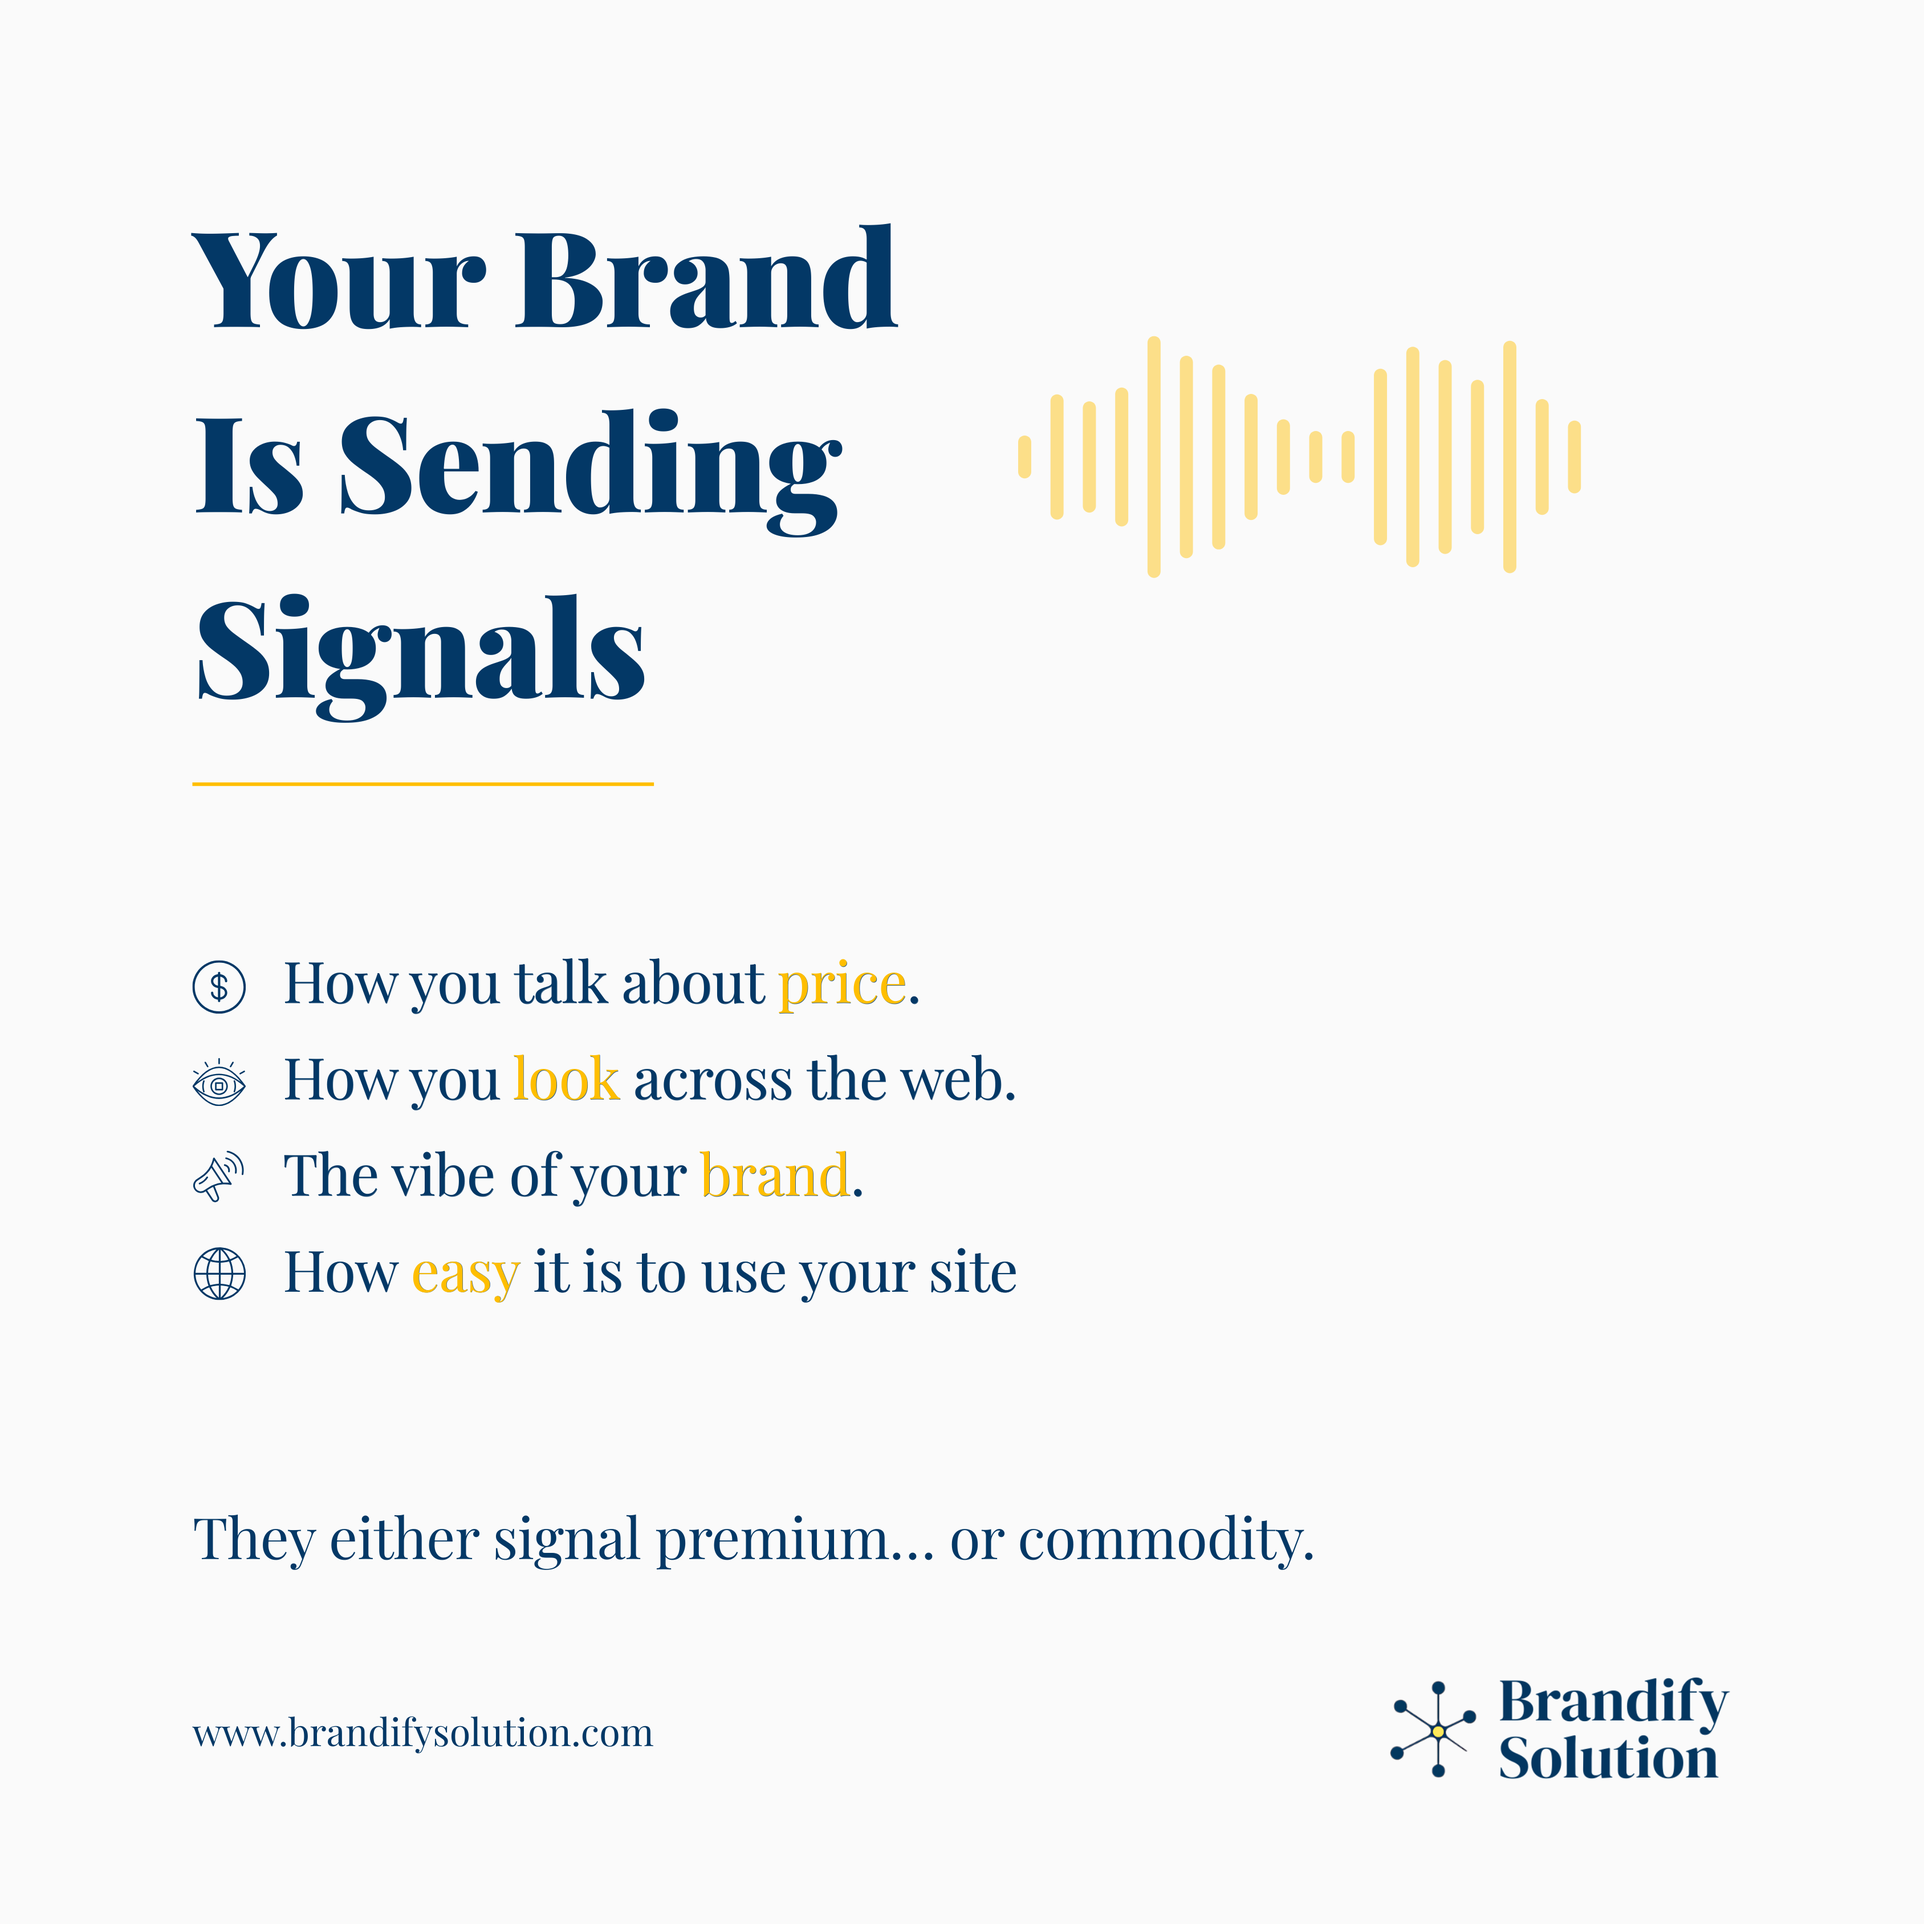
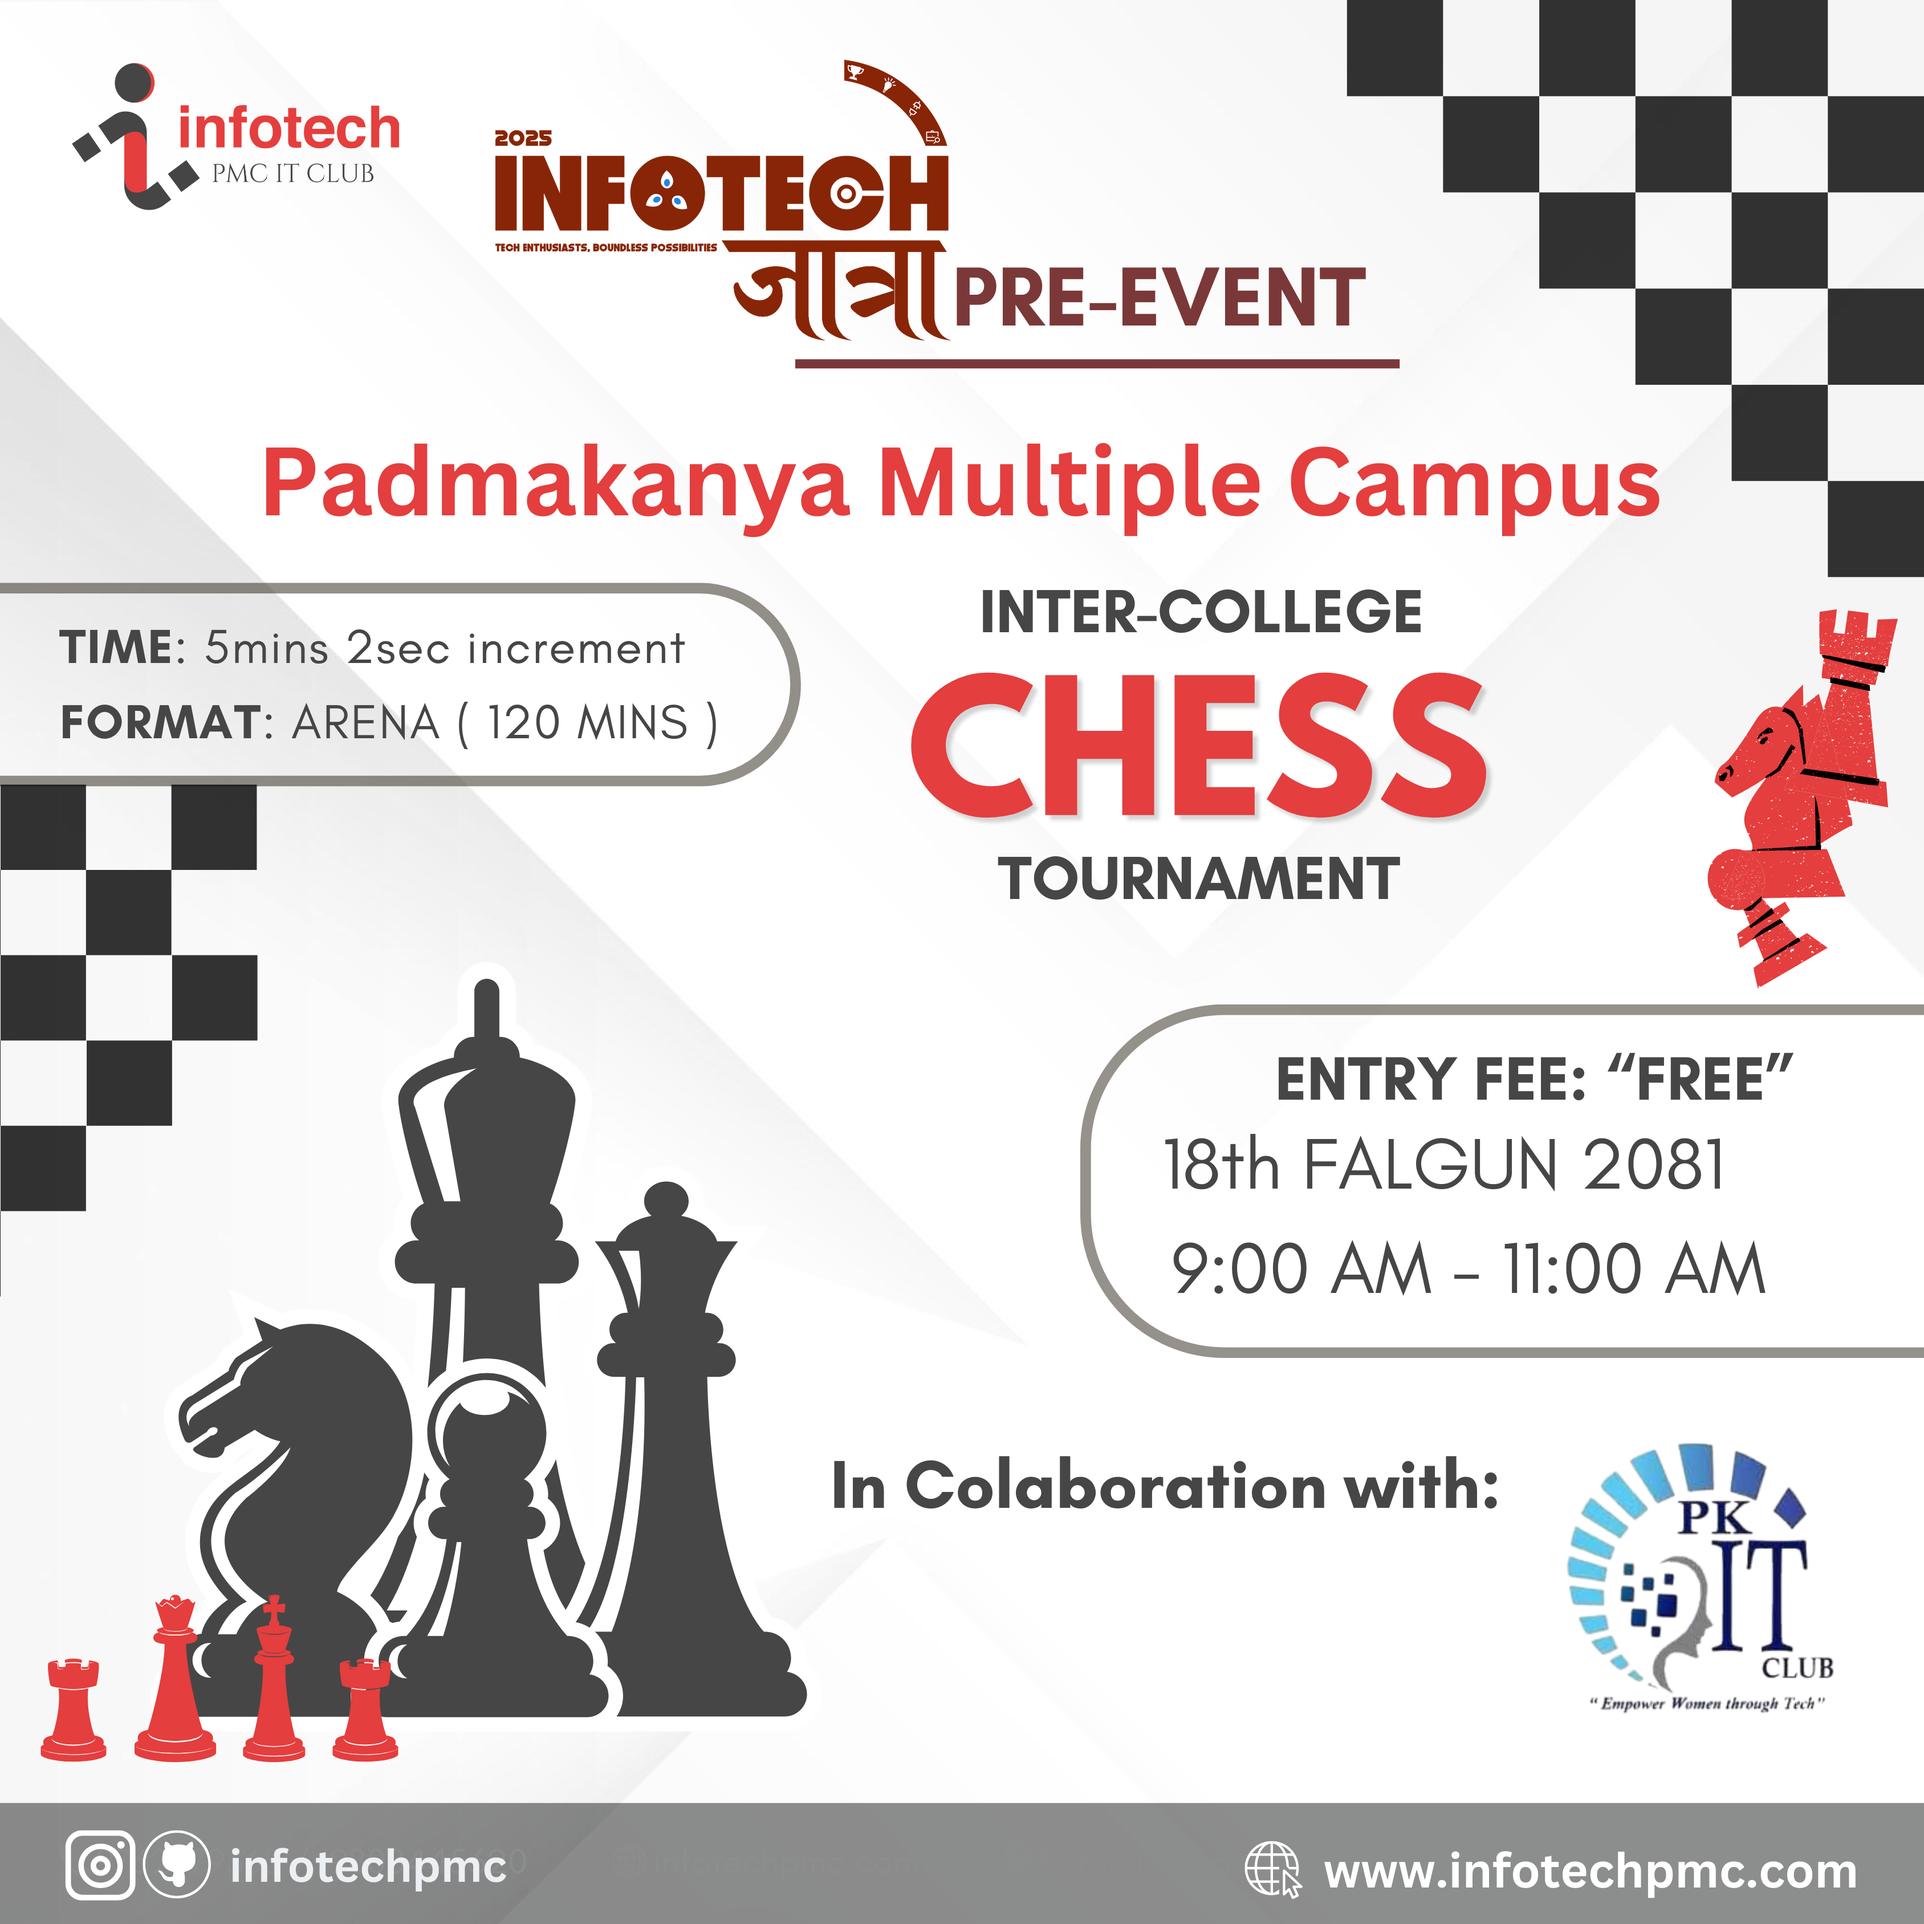
added one more design into featured works and improved css

diff --git a/index.html b/index.html
@@ -97,6 +97,40 @@
     <p class="slabel" style="padding-left:2vw">— featured work</p>
 
     <div class="work-grid">
+
+       <div class="wcard glass fi" style="transition-delay:.2s" onclick="void(0)">
+        <div class="wimg">
+          <div class="wpholder">
+            <img src="images/sn.jpg" alt="superteam">
+          </div>
+          <div class="wstat">
+            <span class="wstat-n">↑ viral</span>
+            <span class="wstat-l">allegedly</span>
+          </div>
+        </div>
+        <div class="wmeta">
+          <span class="wlabel">this surprised me</span>
+          <span class="wtag">poster</span>
+        </div>
+      </div>
+
+       <div class="wcard glass fi" style="transition-delay:.1s" onclick="void(0)">
+        <div class="wimg">
+          <div class="wpholder">
+            <img src="images/fb.png" alt="facebook">
+          </div>
+          <div class="wstat">
+            <span class="wstat-n">2.4k</span>
+            <span class="wstat-l">likes</span>
+          </div>
+        </div>
+        <div class="wmeta">
+          <span class="wlabel">client liked this one</span>
+          <span class="wtag">facebook</span>
+        </div>
+      </div>
+
+
       <div class="wcard glass fi" onclick="void(0)">
         <div class="wimg">
           <div class="wpholder">
@@ -113,37 +147,9 @@
         </div>
       </div>
 
-      <div class="wcard glass fi" style="transition-delay:.1s" onclick="void(0)">
-        <div class="wimg">
-          <div class="wpholder">
-            <img src="images/fb.png" alt="fb">
-          </div>
-          <div class="wstat">
-            <span class="wstat-n">2.4k</span>
-            <span class="wstat-l">likes</span>
-          </div>
-        </div>
-        <div class="wmeta">
-          <span class="wlabel">client liked this one</span>
-          <span class="wtag">facebook</span>
-        </div>
-      </div>
+     
 
-      <div class="wcard glass fi" style="transition-delay:.2s" onclick="void(0)">
-        <div class="wimg">
-          <div class="wpholder">
-            <img src="images/sn.jpg" alt="superteam">
-          </div>
-          <div class="wstat">
-            <span class="wstat-n">↑ viral</span>
-            <span class="wstat-l">allegedly</span>
-          </div>
-        </div>
-        <div class="wmeta">
-          <span class="wlabel">this surprised me</span>
-          <span class="wtag">poster</span>
-        </div>
-      </div>
+     
 
       <div class="wcard glass fi" style="transition-delay:.15s" onclick="void(0)">
         <div class="wimg">
@@ -172,10 +178,27 @@
           </div>
         </div>
         <div class="wmeta">
-          <span class="wlabel">i liked this one more</span>
+          <span class="wlabel">i really liked this one</span>
           <span class="wtag">instagram</span>
         </div>
       </div>
+
+      <div class="wcard glass fi" style="transition-delay:.25s" onclick="void(0)">
+        <div class="wimg">
+          <div class="wpholder">
+            <img src="images/lkdn.png" alt="fb">
+          </div>
+          <div class="wstat">
+            <span class="wstat-n">no data</span>
+            <span class="wstat-l">just vibes</span>
+          </div>
+        </div>
+        <div class="wmeta">
+          <span class="wlabel">this is something..</span>
+          <span class="wtag">facebook</span>
+        </div>
+      </div>
+
 
 
       

diff --git a/css/light.css b/css/light.css
@@ -286,24 +286,26 @@
       transition:transform .4s cubic-bezier(.23,1,.32,1), box-shadow .4s;
     }
     .wcard:hover { transform:translateY(-8px) scale(1.02); box-shadow:0 16px 48px rgba(160,148,130,.25); }
-    .wcard:nth-child(1) { grid-column:1/6;  margin-top:0; }
-    .wcard:nth-child(2) { grid-column:6/10; margin-top:3.5rem; }
-    .wcard:nth-child(3) { grid-column:10/13;margin-top:7rem; }
-    .wcard:nth-child(4) { grid-column:2/7;  margin-top:-1.5rem; }
-    .wcard:nth-child(5) { grid-column:7/12; margin-top:1.5rem; }
+    .wcard:hover { transform:translateY(-8px) scale(1.02); }
+    .wcard:nth-child(1) { grid-column:1/5;  margin-top:0; }
+    .wcard:nth-child(2) { grid-column:5/9; margin-top:8.5rem; }
+    .wcard:nth-child(3) { grid-column:9/13;margin-top:5rem; }
+    .wcard:nth-child(4) { grid-column:2/8;  margin-top:-2.5rem; }
+    .wcard:nth-child(5) { grid-column:8/13; margin-top:-6.5rem; }
+    .wcard:nth-child(6) { grid-column:1/6; margin-top:-12rem; }
 
     .wimg {
       width:100%; border-radius:12px;
-      background:rgba(255,255,255,.5);
-      border:1px solid rgba(255,255,255,.9);
-      box-shadow: 0 2px 12px rgba(160,148,130,.1);
+      background:rgba(255,255,255,.03);
+      border:1px solid rgba(255,255,255,.06);
       position:relative; overflow:hidden;
     }
-    .wcard:nth-child(1) .wimg { aspect-ratio:4/5; }
+    .wcard:nth-child(1) .wimg { aspect-ratio:9/16; }
     .wcard:nth-child(2) .wimg { aspect-ratio:1/1; }
-    .wcard:nth-child(3) .wimg { aspect-ratio:9/16; }
+    .wcard:nth-child(3) .wimg { aspect-ratio:4/5; }
     .wcard:nth-child(4) .wimg { aspect-ratio:16/9; }
     .wcard:nth-child(5) .wimg { aspect-ratio:4/5; }
+    .wcard:nth-child(6) .wimg { aspect-ratio:1/1; }
 
     .wpholder {
       width:100%; min-height:160px; height:100%;

diff --git a/css/dark.css b/css/dark.css
@@ -260,11 +260,12 @@
       transition:transform .4s cubic-bezier(.23,1,.32,1);
     }
     .wcard:hover { transform:translateY(-8px) scale(1.02); }
-    .wcard:nth-child(1) { grid-column:1/6;  margin-top:0; }
-    .wcard:nth-child(2) { grid-column:6/10; margin-top:3.5rem; }
-    .wcard:nth-child(3) { grid-column:10/13;margin-top:7rem; }
-    .wcard:nth-child(4) { grid-column:2/7;  margin-top:-1.5rem; }
-    .wcard:nth-child(5) { grid-column:7/12; margin-top:1.5rem; }
+    .wcard:nth-child(1) { grid-column:1/5;  margin-top:0; }
+    .wcard:nth-child(2) { grid-column:5/9; margin-top:8.5rem; }
+    .wcard:nth-child(3) { grid-column:9/13;margin-top:5rem; }
+    .wcard:nth-child(4) { grid-column:2/8;  margin-top:-2.5rem; }
+    .wcard:nth-child(5) { grid-column:8/13; margin-top:-6.5rem; }
+    .wcard:nth-child(6) { grid-column:1/6; margin-top:-12rem; }
 
     .wimg {
       width:100%; border-radius:12px;
@@ -272,11 +273,12 @@
       border:1px solid rgba(255,255,255,.06);
       position:relative; overflow:hidden;
     }
-    .wcard:nth-child(1) .wimg { aspect-ratio:4/5; }
+    .wcard:nth-child(1) .wimg { aspect-ratio:9/16; }
     .wcard:nth-child(2) .wimg { aspect-ratio:1/1; }
-    .wcard:nth-child(3) .wimg { aspect-ratio:9/16; }
+    .wcard:nth-child(3) .wimg { aspect-ratio:4/5; }
     .wcard:nth-child(4) .wimg { aspect-ratio:16/9; }
     .wcard:nth-child(5) .wimg { aspect-ratio:4/5; }
+    .wcard:nth-child(6) .wimg { aspect-ratio:1/1; }
 
     .wpholder {
       width:100%; min-height:160px; height:100%;
